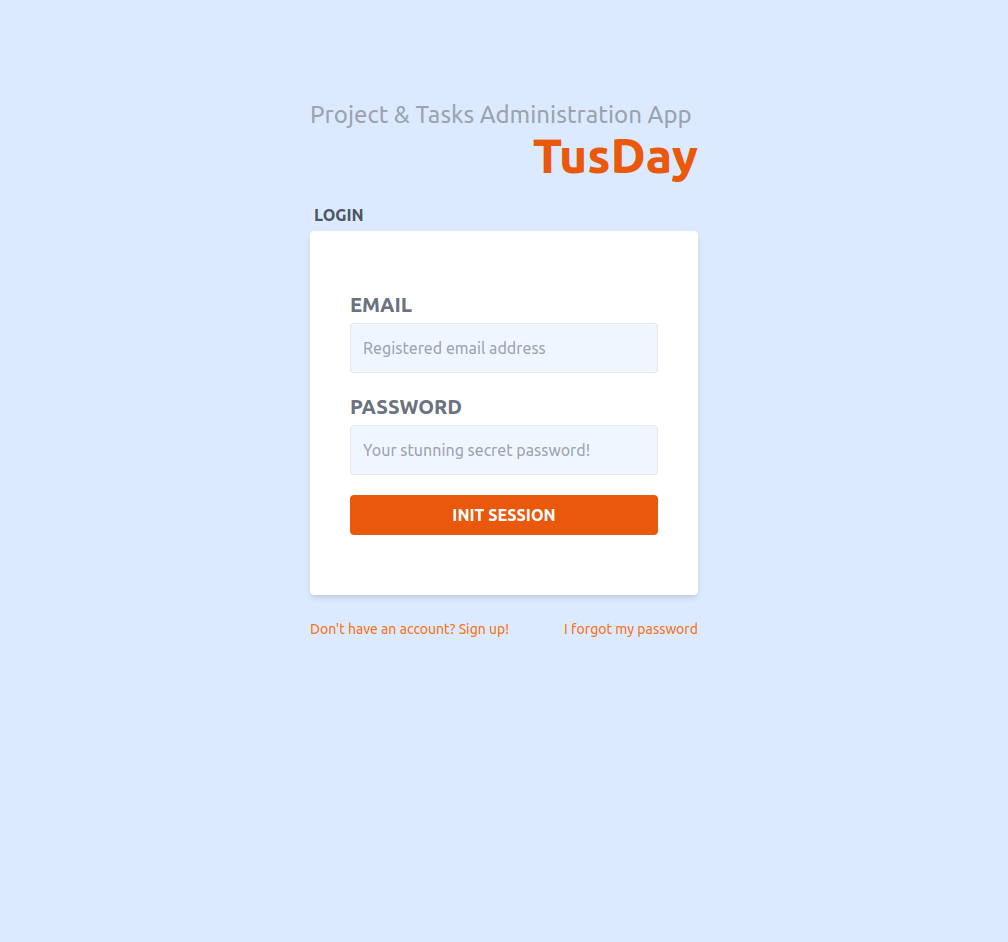
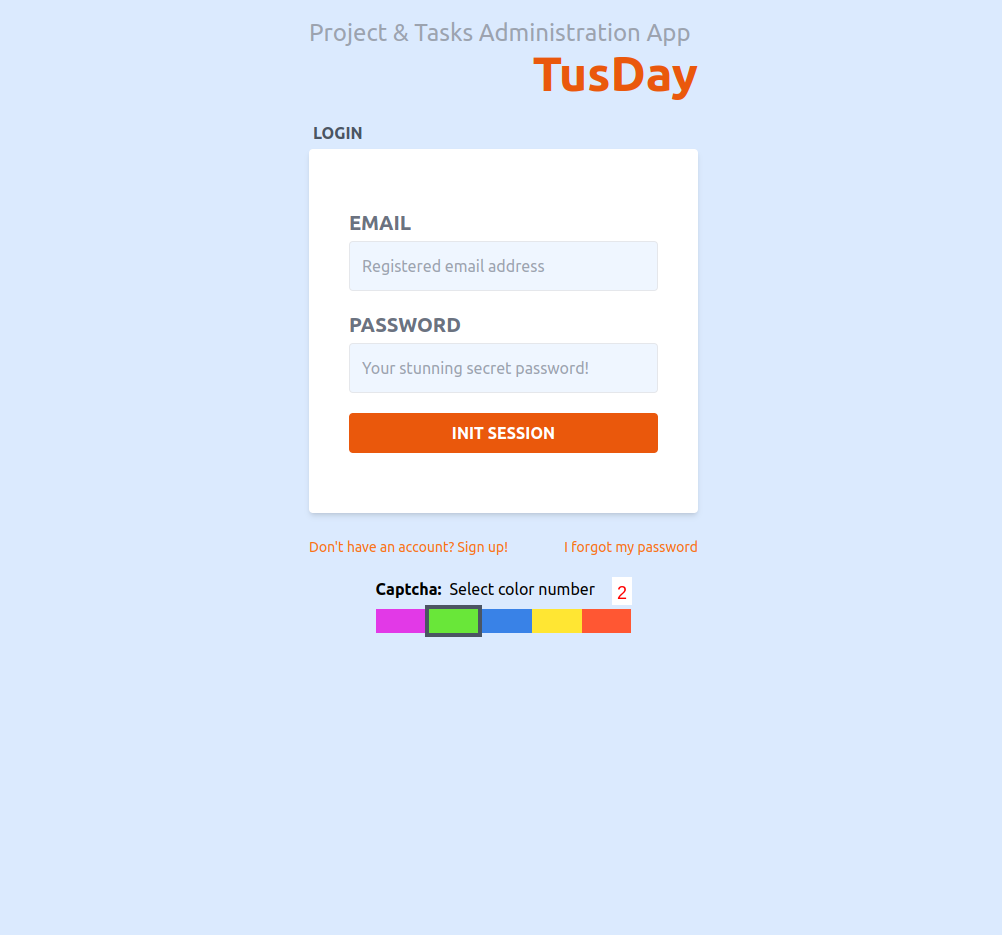
Info updated

Changed region(s): [[0.3094, 0.031, 0.7116, 0.6824]]

diff --git a/index.html b/index.html
@@ -33,6 +33,7 @@
             <li>JWT</li>
             <li>Single use tokens</li>
             <li>CORS (Allowing Frontend App URL)</li>
+            <li>Captcha data to image generator</li>
           </ul>
           <li>Nodemailer</li>
           <li>Socket.io:</li>
@@ -54,8 +55,9 @@
           <li>Public and protected routes</li>
           <li>Context API</li>
           <li>Providers - Hooks</li>
-          <li>Layouts, Pages, Components</li>          
-          <li>Axios</li>
+          <li>Layouts, Pages, Components</li>
+          <li>Captcha to resolve in Login and Create Account forms</li>
+          <li>Axios</li>          
           <li>Tailwind CSS</li>
           <li>HeroIcons, Headless UI</li>         
           <!-- <li>Repository: <a href="https://github.com/dmeritano/tusday-app-frontend" target="_blank" class="link">Frontend</a></li> -->
@@ -71,7 +73,7 @@
       </div>
       <div class="item">
         <img src="./images/0.png" alt="login snapshot" />
-        <p>Login form with access to create a new account and a method to recover the password</p>
+        <p>Login form with access to create a new account and a method to recover the password. Also including a captcha to resolve</p>
       </div>
       <div class="item">
         <img src="./images/1.png" alt="login snapshot" />
